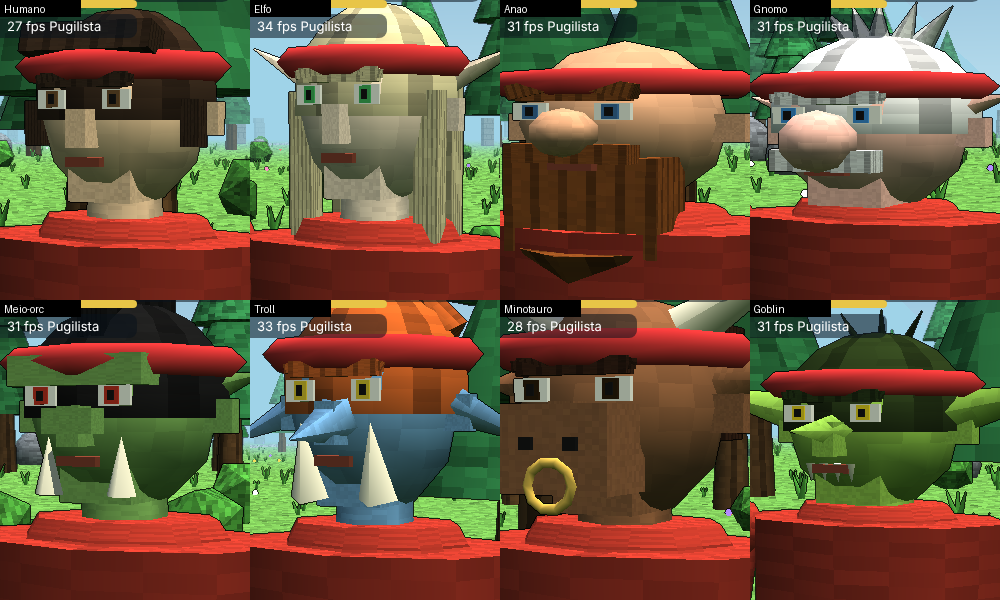
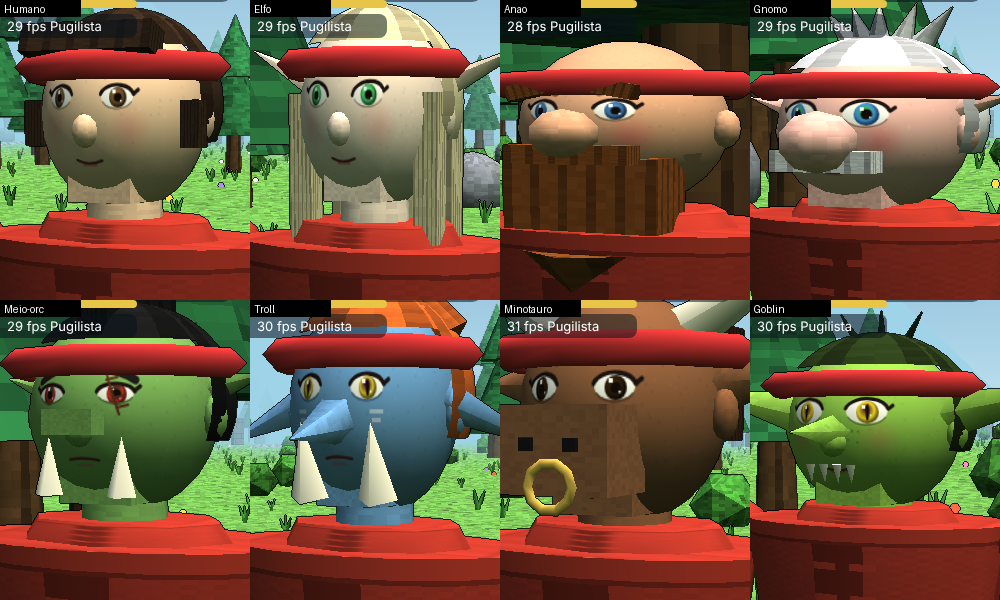
Modelo clássico mais detalhado: rosto pintado, formas redondas, roupas pintadas
- Cabeça vira esfera com textura de rosto pintada por raça (pele,
  olhos com íris, brilho e cílios, sobrancelhas, bochechas, nariz,
  boca; pupila em fenda no troll e goblin, cicatriz no meio-orc)
- Cabelo dividido em nuca aberta na frente + topo, para não cobrir o
  rosto; olhos, boca e sobrancelhas de caixa removidos
- Mais segmentos em tronco, pescoço, braços, pernas, ombreiras, elmo,
  capuz, manto e chapéu; mãos, polegar, nariz, orelhas e botas
  arredondados
- Texturas pintadas: túnica (gola, botões, costuras, dobras, barra),
  calça (costura e joelheira) e bota (cadarço)

Claude-Session: https://claude.ai/code/session_01HvZNL5ZoP3ufZ1YEJtfHMj

diff --git a/index.html b/index.html
@@ -272,29 +272,61 @@ function gear(){b0.visible=wi==0;b1.visible=wi==1;a1.visible=wi==2&&!p.ax;a2.vis
 function swap(){if(cls==2){setEl((el+1)%4);return}toast('Para trocar de build, reinicie a fase')}
 const pj=mkAx(S);pj.visible=false;let pjT=null;
 // ---- Humanoide estilo PS1 (peças facetadas, juntas para animar)
+// Texturas pintadas do personagem: rosto por raça (cor), túnica, calça e bota (tons de cinza, tingidos pela cor da classe)
+const FCV=document.createElement('canvas');FCV.width=512;FCV.height=256;const FACT=new THREE.CanvasTexture(FCV);FACT.magFilter=THREE.NearestFilter;FACT.anisotropy=2;
+const HDM=new THREE.MeshLambertMaterial({map:FACT});
+const PT=(w,h,f,rx=1,ry=1)=>{const c=document.createElement('canvas');c.width=w;c.height=h;const x=c.getContext('2d');f(x,w,h);const t=new THREE.CanvasTexture(c);t.magFilter=THREE.NearestFilter;t.wrapS=t.wrapT=THREE.RepeatWrapping;t.repeat.set(rx,ry);return t};
+const gv=(x,v,X,Y,w=1,h=1)=>{v=Math.max(0,Math.min(255,v|0));x.fillStyle='rgb('+v+','+v+','+v+')';x.fillRect(X,Y,w,h)};
+const TTUN=PT(64,64,(x,w,h)=>{for(let i=0;i<w;i++)for(let j=0;j<h;j++){const fold=Math.sin(i*.45+j*.08)*6+Math.sin(i*.17)*5;gv(x,232-j*.55+fold+((i+j)%2?4:-4)+rnd(-5,5),i,j)}
+  for(let j=0;j<h;j++){gv(x,150,0,j,2,1);gv(x,150,w-2,j,2,1);gv(x,190,15,j,1,1);gv(x,190,47,j,1,1)}for(let j=10;j<h-8;j+=9){gv(x,250,1,j,2,2);gv(x,250,w-2,j,2,2)}
+  for(let i=0;i<w;i++){gv(x,255,i,0,1,4);gv(x,170,i,4,1,1);gv(x,165,i,h-7,1,1);for(let j=h-6;j<h;j++)gv(x,(i+j)%4<2?250:205,i,j)}});
+const TPAN=PT(32,64,(x,w,h)=>{for(let i=0;i<w;i++)for(let j=0;j<h;j++)gv(x,214+((i*3+j)%5==0?-14:0)+rnd(-7,7)-Math.abs(Math.sin(j*.3))*6,i,j);for(let j=0;j<h;j++){gv(x,165,16,j);gv(x,165,0,j)}
+  for(let i=4;i<28;i++)for(let j=26;j<38;j++)gv(x,185+rnd(-6,6),i,j);for(let i=4;i<28;i+=2){gv(x,240,i,26);gv(x,240,i,37)}});
+const TBOOT=PT(64,32,(x,w,h)=>{for(let i=0;i<w;i++)for(let j=0;j<h;j++)gv(x,200+rnd(-14,14)-(j>24?40:0),i,j);for(let j=2;j<22;j+=4){x.strokeStyle='#f0e6d0';x.lineWidth=1;x.beginPath();x.moveTo(12,j);x.lineTo(20,j+3);x.moveTo(20,j);x.lineTo(12,j+3);x.stroke()}});
+const BTM=L(0x3b2a1a);BTM.map=TBOOT;
+function paintFace(i){const x=FCV.getContext('2d'),W=512,H=256,sk=new THREE.Color(RACES[i].skin),hc='#'+new THREE.Color(RXC[i]).getHexString(),ir=new THREE.Color(RXE[i]),cs=c=>'#'+c.getHexString(),sh=(c,k)=>cs(c.clone().multiplyScalar(k));
+  x.fillStyle=cs(sk);x.fillRect(0,0,W,H);for(let k=0;k<900;k++){x.fillStyle=rnd(0,1)<.5?sh(sk,.94):sh(sk,1.05);x.fillRect(rnd(0,W),rnd(0,H),2,2)}
+  let g=x.createRadialGradient(128,128,40,128,128,180);g.addColorStop(0,'rgba(0,0,0,0)');g.addColorStop(1,'rgba(0,0,0,.18)');x.fillStyle=g;x.fillRect(0,0,W,H);
+  const blush=i==2||i==3?.45:i==4||i==5||i==6?0:.22;for(const sx of[-1,1]){g=x.createRadialGradient(128+sx*42,140,2,128+sx*42,140,22);g.addColorStop(0,'rgba(230,90,90,'+blush+')');g.addColorStop(1,'rgba(230,90,90,0)');x.fillStyle=g;x.fillRect(80+sx*42,110,96,60)}
+  const big=i==3||i==7?1.25:i==1?1.05:1,slit=i==7||i==5;
+  for(const sx of[-1,1]){const cx=128+sx*31,cy=114,ew=15*big,eh=(i==4?7:9)*big;
+    x.fillStyle='#fbf7ef';x.beginPath();x.ellipse(cx,cy,ew,eh,sx*(i==1?-.18:0),0,Math.PI*2);x.fill();
+    g=x.createRadialGradient(cx,cy-2,1,cx,cy,8*big);g.addColorStop(0,sh(ir,1.35));g.addColorStop(.7,cs(ir));g.addColorStop(1,sh(ir,.45));x.fillStyle=g;x.beginPath();x.arc(cx+sx*1,cy+1,8*big,0,Math.PI*2);x.fill();
+    x.fillStyle='#120c08';x.beginPath();if(slit)x.ellipse(cx+sx,cy+1,1.6,6*big,0,0,Math.PI*2);else x.arc(cx+sx,cy+1,3.6*big,0,Math.PI*2);x.fill();
+    x.fillStyle='#fff';x.fillRect(cx-4,cy-5,3,3);x.fillRect(cx+3,cy+3,1.5,1.5);
+    x.strokeStyle='#1a1210';x.lineWidth=3.2;x.beginPath();x.ellipse(cx,cy+1,ew+1,eh+1,sx*(i==1?-.18:0),Math.PI*1.08,Math.PI*1.92);x.stroke();x.beginPath();x.moveTo(cx+sx*(ew+1),cy-2);x.lineTo(cx+sx*(ew+5),cy-5);x.stroke();
+    x.lineWidth=1.2;x.strokeStyle=sh(sk,.6);x.beginPath();x.ellipse(cx,cy,ew,eh+1,0,Math.PI*.15,Math.PI*.85);x.stroke();
+    x.strokeStyle=hc;x.lineCap='round';x.lineWidth=i==2||i==4?7:i==1?2.5:4.5;x.beginPath();const by=i==4?100:96;x.moveTo(cx-sx*12,by+(i==4?-4:2));x.quadraticCurveTo(cx+sx*2,by-(i==1?8:5),cx+sx*16,by+(i==4?4:0));x.stroke()}
+  x.strokeStyle=sh(sk,.72);x.lineWidth=2;x.beginPath();x.moveTo(126,128);x.quadraticCurveTo(122,142,128,146);x.stroke();x.fillStyle=sh(sk,.6);x.fillRect(121,147,3,2);x.fillRect(133,147,3,2);
+  x.strokeStyle='#6a2a28';x.lineWidth=2.6;x.beginPath();x.moveTo(113,166);x.quadraticCurveTo(128,(i==4||i==5)?163:172,143,166);x.stroke();x.fillStyle='rgba(200,90,90,.45)';x.fillRect(119,169,18,3);
+  if(i==4){x.strokeStyle='#5a2a1e';x.lineWidth=2;x.beginPath();x.moveTo(150,96);x.lineTo(162,130);x.stroke();for(let k=0;k<4;k++){x.beginPath();x.moveTo(151+k*3,104+k*7);x.lineTo(160+k*3,102+k*7);x.stroke()}}
+  if(i==7)for(let k=0;k<14;k++){x.fillStyle=sh(sk,.75);x.fillRect(100+rnd(0,56),126+rnd(0,16),2,2)}
+  if(i==5){x.fillStyle='rgba(255,255,255,.55)';for(const sx of[-1,1]){x.fillRect(128+sx*40-6,130,12,3);x.fillRect(128+sx*40-4,136,8,3)}}
+  x.fillStyle=hc;x.fillRect(0,0,W,i==2||i==6?0:34);FACT.needsUpdate=true}
+
 const SK=L(0xf0c8a0),HR=L(0x3a2a1e),BT=L(0x3b2a1a),legM=L(0x3a3f5a),eyeM=L(0x111111,null),BY=1.28,PD=[];
-{const TG=new THREE.CylinderGeometry(.36,.27,.65,8,2),ps=TG.attributes.position;for(let i=0;i<ps.count;i++)if(Math.abs(ps.getY(i))<.01){ps.setX(i,ps.getX(i)*1.14);ps.setZ(i,ps.getZ(i)*1.14)}TG.scale(1,1,.62);body.geometry.dispose();body.geometry=TG;body.position.y=BY}
-add(new THREE.CylinderGeometry(.27,.25,.26,8),legM,0,-.4,0,body).scale.z=.62;
-add(new THREE.CylinderGeometry(.285,.285,.07,8),L(0x6b4a2b),0,-.27,0,body).scale.z=.65;
+{const TG=new THREE.CylinderGeometry(.36,.27,.65,16,3),ps=TG.attributes.position;for(let i=0;i<ps.count;i++)if(Math.abs(ps.getY(i))<.01){ps.setX(i,ps.getX(i)*1.14);ps.setZ(i,ps.getZ(i)*1.14)}TG.scale(1,1,.62);body.geometry.dispose();body.geometry=TG;body.position.y=BY}
+add(new THREE.CylinderGeometry(.27,.25,.26,16),legM,0,-.4,0,body).scale.z=.62;
+add(new THREE.CylinderGeometry(.285,.285,.07,16),L(0x6b4a2b),0,-.27,0,body).scale.z=.65;
 const hd=new THREE.Group();hd.position.set(0,.6,0);body.add(hd);
-{const H2=new THREE.IcosahedronGeometry(.2,1);H2.scale(.92,1.08,.98);add(H2,SK,0,0,0,hd)}
-add(new THREE.CylinderGeometry(.08,.09,.16,6),SK,0,-.2,0,hd);
+{const H2=new THREE.SphereGeometry(.2,20,14);H2.scale(.92,1.08,.98);add(H2,HDM,0,0,0,hd)}
+add(new THREE.CylinderGeometry(.08,.09,.16,12),SK,0,-.2,0,hd);
 add(new THREE.BoxGeometry(.15,.12,.14),SK,0,-.13,.06,hd);
-add(new THREE.BoxGeometry(.045,.08,.07),SK,0,-.03,.2,hd);
+add(new THREE.SphereGeometry(.028,8,6),SK,0,-.035,.19,hd).scale.set(1,1.3,1.2);
 add(new THREE.BoxGeometry(.2,.03,.03),HR,0,.07,.19,hd);
 add(new THREE.BoxGeometry(.04,.03,.02),eyeM,-.075,.03,.19,hd);add(new THREE.BoxGeometry(.04,.03,.02),eyeM,.075,.03,.19,hd);
-add(new THREE.BoxGeometry(.06,.07,.04),SK,-.2,-.01,0,hd);add(new THREE.BoxGeometry(.06,.07,.04),SK,.2,-.01,0,hd);
-add(new THREE.SphereGeometry(.215,8,5,0,PI2,0,Math.PI*.55),HR,0,.02,-.015,hd);
+for(const sx of[-1,1])add(new THREE.SphereGeometry(.04,8,6),SK,sx*.19,-.01,0,hd).scale.set(.6,1.2,.9);
+add(new THREE.SphereGeometry(.215,18,10,Math.PI/2+1.25,PI2-2.5,0,Math.PI*.62),HR,0,.02,-.015,hd);add(new THREE.SphereGeometry(.215,18,6,0,PI2,0,Math.PI*.3),HR,0,.02,-.015,hd);
 const arm=sx=>{const ua=new THREE.Group();ua.position.set(sx*.43,.27,0);body.add(ua);
-  add(new THREE.SphereGeometry(.1,6,5),body.material,0,0,0,ua);add(new THREE.CylinderGeometry(.075,.065,.34,6),body.material,0,-.17,0,ua);
-  PD.push(add(new THREE.SphereGeometry(.13,6,5),L(0x9aa3ad),0,.03,0,ua));
+  add(new THREE.SphereGeometry(.1,12,8),body.material,0,0,0,ua);add(new THREE.CylinderGeometry(.075,.065,.34,12),body.material,0,-.17,0,ua);
+  PD.push(add(new THREE.SphereGeometry(.13,12,8),L(0x9aa3ad),0,.03,0,ua));
   const fa=new THREE.Group();fa.position.y=-.34;ua.add(fa);
-  add(new THREE.CylinderGeometry(.06,.05,.32,6),SK,0,-.16,0,fa);add(new THREE.BoxGeometry(.09,.12,.07),SK,0,-.38,0,fa);add(new THREE.BoxGeometry(.03,.07,.05),SK,sx*.06,-.34,.03,fa);return[ua,fa]};
+  add(new THREE.CylinderGeometry(.06,.05,.32,12),SK,0,-.16,0,fa);add(new THREE.SphereGeometry(.055,10,8),SK,0,-.38,0,fa).scale.set(.85,1.15,.7);add(new THREE.CylinderGeometry(.018,.016,.07,6),SK,sx*.05,-.35,.035,fa).rotation.z=sx*.5;return[ua,fa]};
 const [uaL,faL]=arm(-1),[uaR,faR]=arm(1);
-const leg=sx=>{const hp=new THREE.Group();hp.position.set(sx*.13,.95,0);pg.add(hp);add(new THREE.CylinderGeometry(.11,.08,.48,6),legM,0,-.24,0,hp);
-  const kn=new THREE.Group();kn.position.y=-.48;hp.add(kn);add(new THREE.CylinderGeometry(.08,.06,.46,6),legM,0,-.23,0,kn);add(new THREE.BoxGeometry(.13,.09,.28),BT,0,-.44,.06,kn);return[hp,kn]};
+const leg=sx=>{const hp=new THREE.Group();hp.position.set(sx*.13,.95,0);pg.add(hp);add(new THREE.CylinderGeometry(.11,.08,.48,12),legM,0,-.24,0,hp);
+  const kn=new THREE.Group();kn.position.y=-.48;hp.add(kn);add(new THREE.CylinderGeometry(.08,.06,.46,12),legM,0,-.23,0,kn);add(new THREE.SphereGeometry(.08,12,8),BTM,0,-.43,.06,kn).scale.set(.85,.62,1.8);add(new THREE.CylinderGeometry(.075,.065,.14,12),BTM,0,-.36,0,kn);return[hp,kn]};
 const [legL,kL]=leg(-1),[legR,kR]=leg(1);
-body.material.map=TCL;legM.map=TCL;SK.map=TSK;HR.map=THR;BT.map=TLE;
+body.material.map=TTUN;legM.map=TPAN;SK.map=TSK;HR.map=THR;BT.map=TLE;
 // Detalhes do jogador: boca, gola, fivela, túnica, braçadeiras, joelheiras e cano das botas
 add(new THREE.BoxGeometry(.065,.014,.02),L(0x5a2a26),0,-.095,.195,hd);
 add(new THREE.CylinderGeometry(.2,.25,.08,8),body.material,0,.33,0,body).scale.z=.7;
@@ -303,8 +335,8 @@ add(new THREE.BoxGeometry(.3,.36,.03),body.material,0,-.47,.16,body);add(new THR
 for(const f of[faL,faR])add(new THREE.CylinderGeometry(.068,.06,.14,6),BT,0,-.24,0,f);
 for(const k of[kL,kR]){PD.push(add(new THREE.SphereGeometry(.075,5,4),L(0x9aa3ad),0,0,.06,k));add(new THREE.CylinderGeometry(.085,.085,.07,6),BT,0,-.35,.01,k)}
 pg.rotation.order='YXZ';
-const helm=add(new THREE.SphereGeometry(.26,8,6,0,PI2,0,Math.PI*.42),L(0x9aa3ad),0,0,0,hd),hood=add(new THREE.ConeGeometry(.28,.5,7),L(0x3f6f3a),0,.22,-.02,hd),robe=add(new THREE.CylinderGeometry(.3,.5,.8,8),L(0x7a4ac0),0,-.6,0,body),hat=new THREE.Group();
-hat.position.set(0,.2,0);hd.add(hat);add(new THREE.CylinderGeometry(.4,.4,.04,10),L(0x5a3a95),0,0,0,hat);add(new THREE.ConeGeometry(.24,.6,8),L(0x5a3a95),0,.3,0,hat);
+const helm=add(new THREE.SphereGeometry(.26,18,10,0,PI2,0,Math.PI*.42),L(0x9aa3ad),0,0,0,hd),hood=add(new THREE.ConeGeometry(.28,.5,14),L(0x3f6f3a),0,.22,-.02,hd),robe=add(new THREE.CylinderGeometry(.3,.5,.8,18),L(0x7a4ac0),0,-.6,0,body),hat=new THREE.Group();
+hat.position.set(0,.2,0);hd.add(hat);add(new THREE.CylinderGeometry(.4,.4,.04,20),L(0x5a3a95),0,0,0,hat);add(new THREE.ConeGeometry(.24,.6,14),L(0x5a3a95),0,.3,0,hat);
 const bw=add(new THREE.BoxGeometry(.08,1.3,.08),L(0x8a5a2b),0,0,.4,sw2),sp3=add(new THREE.BoxGeometry(.07,.07,2.7),L(0xcfd6dd),0,0,1.2,sw),dg1=add(new THREE.BoxGeometry(.08,.08,.7),L(0xdfe6ee),0,0,.5,sw),dg2=add(new THREE.BoxGeometry(.08,.08,.7),L(0xdfe6ee),0,0,.5,sw2);
 const stf=add(new THREE.BoxGeometry(.08,.08,2.2),L(0x6b4a2b),0,0,.9,sw),orb=add(new THREE.SphereGeometry(.2,6,5),new THREE.MeshBasicMaterial({color:0xff6a2a}),0,0,2,sw);
 const al={x:3,z:3,hp:80,max:80,shT:0,mn:1,cd:0,dead:false,zombie:0,mk:0,rv:0,g:new THREE.Group()};S.add(al.g);{const AS=0xf0c8a0,AC=0x3fa68a,AP=[];for(const sx of[-1,1])AP.push([new THREE.CylinderGeometry(.11,.08,.5,6),sx*.14,.5,0,0,0,0,1,1,1,0x3a3f5a],[new THREE.BoxGeometry(.16,.13,.28),sx*.14,.07,.05,0,0,0,1,1,1,0x3b2a1a],[new THREE.CylinderGeometry(.075,.06,.6,6),sx*.42,1.14,0,0,0,sx*.12,1,1,1,AC],[new THREE.SphereGeometry(.12,6,4),sx*.4,1.44,0,0,0,0,1,.8,1,0x9aa3ad],[new THREE.BoxGeometry(.1,.12,.08),sx*.46,.78,0,0,0,0,1,1,1,AS],[new THREE.BoxGeometry(.04,.03,.02),sx*.075,1.79,.19,0,0,0,1,1,1,0x111111]);
@@ -765,19 +797,19 @@ const IRM=L(0x6a4a2a),WHM=L(0xf6f2ea),BNM=L(0xf2ead0),GDM=L(0xd8b04a),DKM2=L(0x1
 {const C=(a,b,h,n=6)=>new THREE.CylinderGeometry(a,b,h,n),Co=(r,h,n=5)=>new THREE.ConeGeometry(r,h,n),B=(x,y,z)=>new THREE.BoxGeometry(x,y,z),Sp=r=>new THREE.SphereGeometry(r,7,5),
   P=(g,m,x,y,z,rx=0,ry=0,rz=0,q)=>{const o=add(g,m,x,y,z,q);o.rotation.set(rx,ry,rz);return o};
   // olhos com branco, íris e pupila + sobrancelhas (todas as raças)
-  for(const sx of[-1,1]){add(B(.062,.04,.01),WHM,sx*.075,.03,.196,hd);add(B(.028,.034,.01),IRM,sx*.072,.03,.2,hd);add(B(.013,.02,.01),DKM2,sx*.072,.03,.204,hd);P(B(.07,.018,.02),HR,sx*.075,.075,.195,0,0,-sx*.12,hd)}
   const G=i=>{const g=new THREE.Group();hd.add(g);RCG[i]=g;return g};let g;
   g=G(0);P(B(.3,.06,.07),HR,0,.15,.165,-.3,0,0,g);for(const sx of[-1,1])add(B(.04,.1,.05),HR,sx*.19,-.02,.06,g);
   g=G(1);for(const sx of[-1,1]){P(Co(.045,.36,4),SK,sx*.235,.08,-.04,-.35,0,-sx*1.15,g);add(B(.06,.32,.06),HR,sx*.17,-.12,.05,g)}add(B(.34,.52,.08),HR,0,-.2,-.13,g);P(new THREE.TorusGeometry(.205,.012,4,14),GDM,0,.1,0,Math.PI/2,0,0,g);
   g=G(2);add(B(.28,.24,.12),HR,0,-.2,.12,g);P(Co(.12,.22,6),HR,0,-.42,.13,Math.PI,0,0,g);add(B(.22,.045,.05),HR,0,-.07,.2,g);add(Sp(.058),SK,0,-.02,.225,g);for(const sx of[-1,1])P(B(.08,.035,.03),HR,sx*.075,.085,.195,0,0,-sx*.25,g);
   g=G(3);add(Sp(.072),SK,0,-.03,.23,g);for(const sx of[-1,1])P(Co(.035,.14,4),SK,sx*.215,.06,0,0,0,-sx*1.25,g);for(let k=0;k<5;k++)P(Co(.04,.16,5),HR,(k-2)*.045,.24,-.02-Math.abs(k-2)*.02,0,0,(k-2)*-.3,g);add(B(.2,.05,.05),HR,0,-.075,.2,g);
-  g=G(4);for(const sx of[-1,1]){add(Co(.03,.12,4),BNM,sx*.075,-.11,.17,g);P(Co(.04,.14,4),SK,sx*.215,.06,-.02,0,0,-sx*1.3,g)}add(B(.27,.06,.09),SK,0,.08,.17,g);add(B(.1,.05,.05),SK,0,-.02,.215,g);add(B(.05,.12,.34),HR,0,.21,-.02,g);
+  g=G(4);for(const sx of[-1,1]){add(Co(.03,.12,4),BNM,sx*.075,-.11,.17,g);P(Co(.04,.14,4),SK,sx*.215,.06,-.02,0,0,-sx*1.3,g)}add(B(.1,.05,.05),SK,0,-.02,.215,g);add(B(.05,.12,.34),HR,0,.21,-.02,g);
   g=G(5);P(Co(.05,.2,5),SK,0,-.04,.27,1.75,0,0,g);for(const sx of[-1,1]){P(Co(.045,.15,4),BNM,sx*.08,-.1,.17,.25,0,0,g);P(Co(.05,.3,4),SK,sx*.25,-.02,0,0,0,-sx*1.95,g)}for(let k=0;k<6;k++)P(Co(.05,.2,4),HR,Math.cos(k)*.1,.22,Math.sin(k*1.7)*.08-.04,Math.sin(k)*.6,0,Math.cos(k*2)*.6,g);
   g=G(6);for(const sx of[-1,1]){P(Co(.06,.4,6),BNM,sx*.22,.2,0,0,0,-sx*1.05,g);P(Co(.055,.15,4),SK,sx*.25,.05,-.03,0,0,-sx*1.55,g);add(B(.022,.022,.01),DKM2,sx*.04,-.06,.276,g)}add(B(.2,.15,.14),SK,0,-.07,.2,g);P(new THREE.TorusGeometry(.04,.009,4,10),GDM,0,-.13,.272,0,0,0,g);add(B(.3,.22,.1),HR,0,.05,-.16,g);
   g=G(7);for(const sx of[-1,1])P(Co(.08,.42,4),SK,sx*.26,.05,0,0,0,-sx*1.35,g);P(Co(.04,.18,4),SK,0,-.01,.27,Math.PI/2,0,0,g);for(let k=0;k<4;k++)P(Co(.012,.045,3),BNM,(k-1.5)*.03,-.11,.198,Math.PI,0,0,g);for(let k=0;k<3;k++)P(Co(.02,.16,3),HR,(k-1)*.06,.22,-.03,0,0,(k-1)*-.5,g);}
-const HCAP=hd.children.find(o=>o.geometry&&o.geometry.parameters&&o.geometry.parameters.radius==.215);
+hd.children.forEach(o=>{const q=o.geometry&&o.geometry.parameters;if(o.isMesh&&(o.material===eyeM||(q&&o.geometry.type=='BoxGeometry'&&((o.material===HR&&q.width==.2)||q.width==.065))))o.visible=false});
+const HCAPS=hd.children.filter(o=>o.geometry&&o.geometry.parameters&&o.geometry.parameters.radius==.215);
 function setRace(i){race=i;RC={...RBASE,...RACES[i].m};SK.color.setHex(RACES[i].skin);raceVis(i);
-  for(const k in RV)RV[k].forEach(m=>m.visible=false);RCG.forEach((g,j)=>g.visible=j==i);IRM.color.setHex(RXE[i]);HR.color.setHex(RXC[i]);hd.scale.setScalar(RXH[i]);if(HCAP)HCAP.visible=i!=2&&i!=6}
+  for(const k in RV)RV[k].forEach(m=>m.visible=false);RCG.forEach((g,j)=>g.visible=j==i);IRM.color.setHex(RXE[i]);HR.color.setHex(RXC[i]);paintFace(i);hd.scale.setScalar(RXH[i]);HCAPS.forEach(o=>o.visible=i!=2&&i!=6)}
 setRace(0);
 // ---- Som e configurações
 let VRV=0,CJV=1,FXV=1,CAMV=1,SHV=matchMedia('(pointer:coarse)').matches?0:1,OLV=1,GRV=1,PS1V=0,RES=320,VOL=.6,MUTE=false,listen=null,AC=null;const KB={},GM2={},lastS={},RESO=[240,320,480,720],GN={0:'✕',1:'○',2:'□',3:'△',4:'L1',5:'R1',6:'L2',7:'R2'};

diff --git a/README.md b/README.md
@@ -54,7 +54,7 @@ em **Configurações**.
 - **Animações dos inimigos:** o passo segue a velocidade real (parado, eles respiram) e os braços balançam ao contrário das pernas. Eles se inclinam ao correr, para trás ao preparar o golpe, e avançam o corpo ao bater. Ao apanhar, são empurrados para trás. Tontos, eles cambaleiam; arremessados, se debatem. Ao morrer, piscam, caem de costas, escurecem e afundam no chão.
 - **Câmera no ombro (estilo ação em 3ª pessoa):** a câmera fica atrás do ombro do personagem e o movimento é relativo a ela. Ela segue sozinha quando você corre, desvia das casas e esconde as árvores que ficam na frente. A visão de cima continua disponível nas configurações.
 - **Visual inspirado em "3D pixel art":** contorno escuro de 1 pixel, sombras reais em pixel com o sol acompanhando o jogador, sol quente com sombra azulada, céu em degradê, rua de paralelepípedo e casas com janelas e floreiras.
-- **Raças com visual próprio:** todas usam o mesmo esqueleto, mas cada uma tem proporção, rosto e cabelo diferentes (veja `docs/racas.png`). O rosto tem olhos com branco, íris colorida e pupila, sobrancelhas e boca.
+- **Raças com visual próprio:** todas usam o mesmo esqueleto, mas cada uma tem proporção, rosto e cabelo diferentes (veja `docs/racas.png` e `docs/corpos.png`). O rosto é pintado numa textura feita para cada raça: pele, olhos com íris colorida, brilho e cílios, sobrancelhas, bochechas, nariz e boca. O Troll e o Goblin têm pupila em fenda, o Meio-orc tem uma cicatriz e o Goblin tem sardas. As peças do corpo são mais arredondadas, e as mãos e as botas deixaram de ser caixas. A túnica é pintada com gola, botões, costuras, dobras e barra; a calça tem costura e joelheira, e a bota tem cadarço.
   - **Humano:** cabelo curto com franja.
   - **Elfo:** orelhas longas para trás, corpo esguio, cabelo longo loiro e olhos verdes.
   - **Anão:** baixo e largo, careca, barba e bigode grandes.
